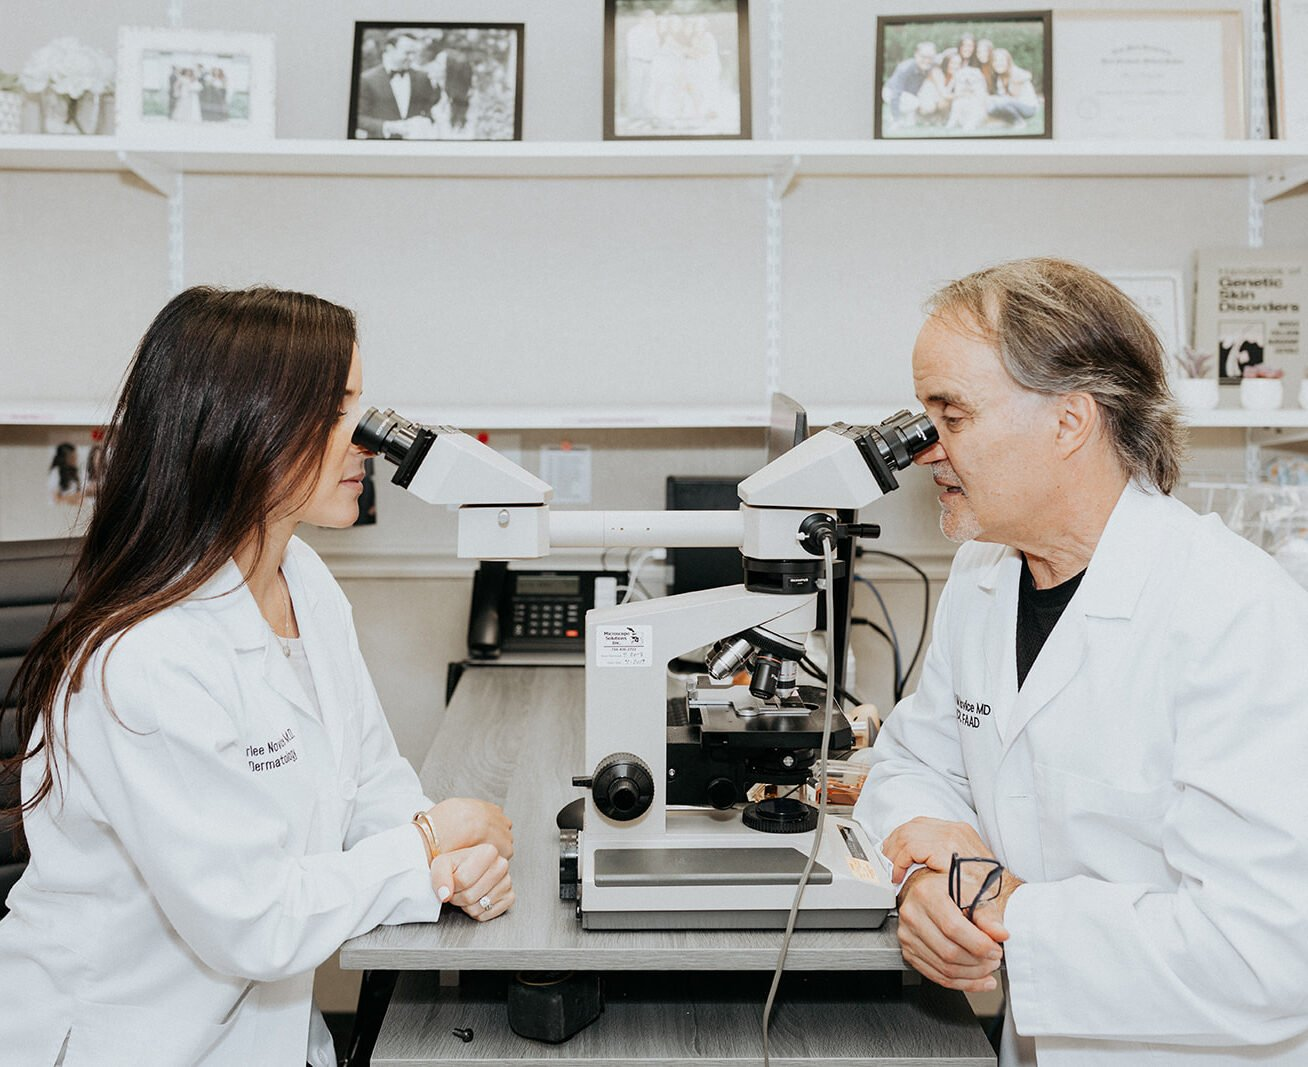
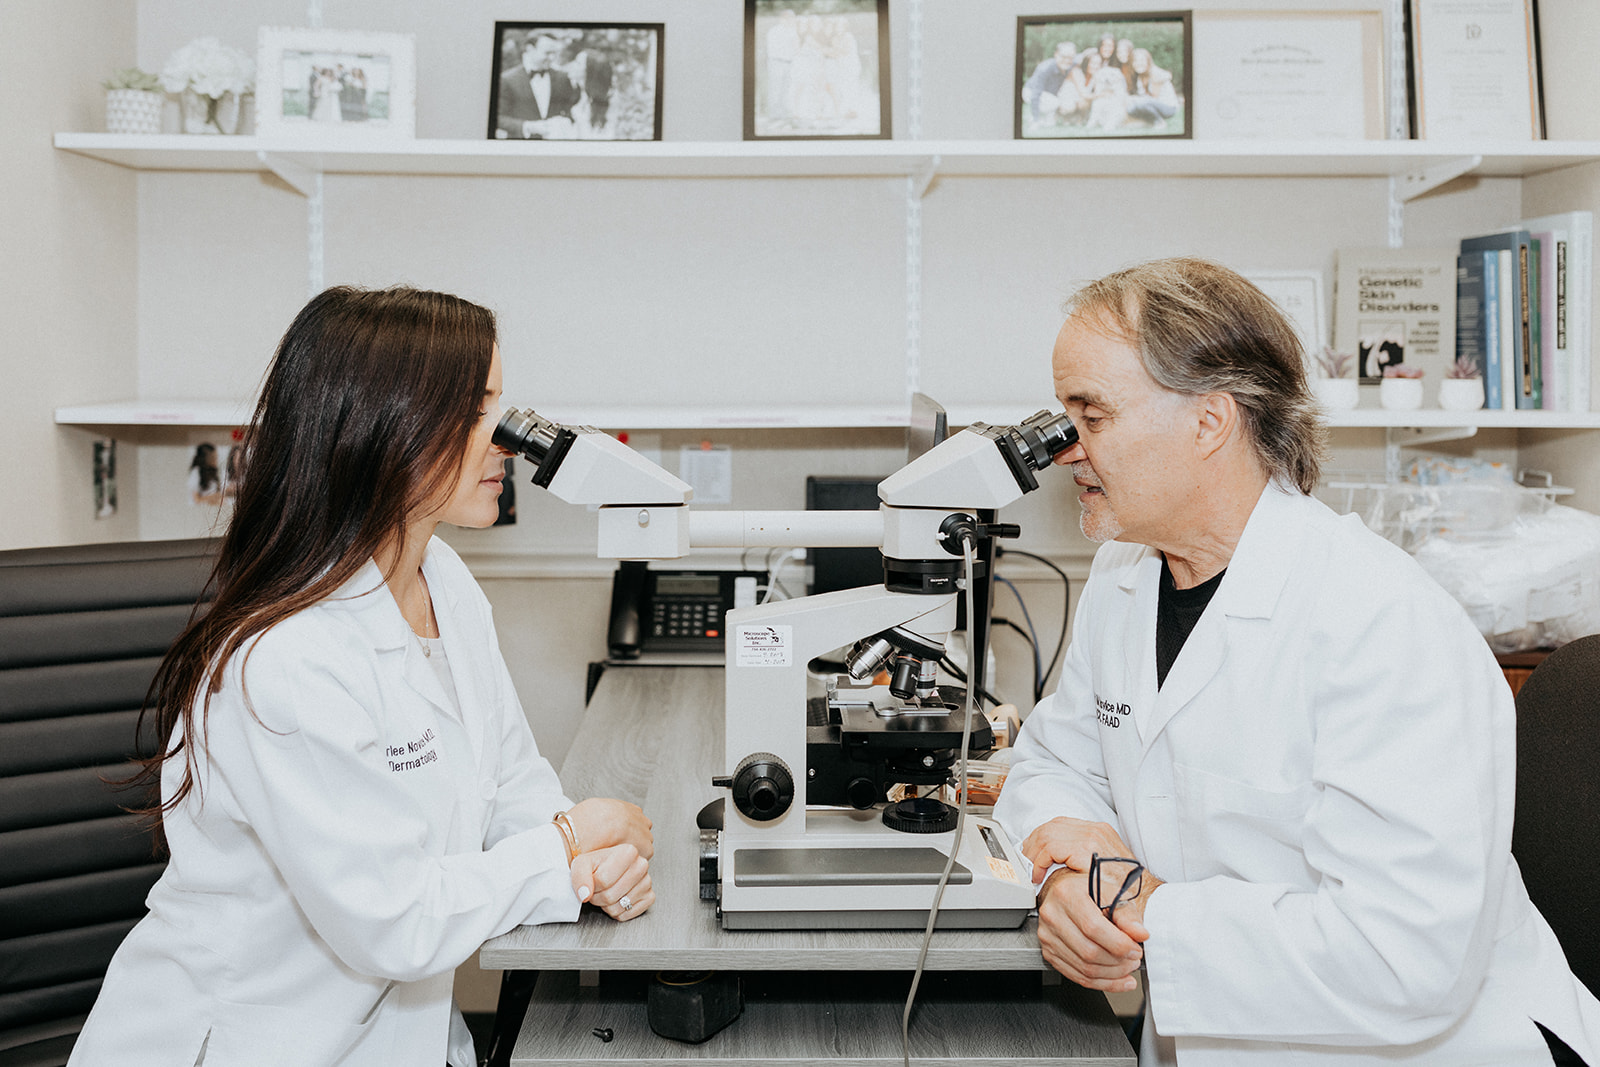
Upgrade hero/Taylor/lab photos and add harvested clinic shots (#7)
* Add harvested clinic photos (hero, Taylor, lab, trio, and new stills)

* Remap images.ts and page heroes to harvested clinic photos

diff --git a/src/lib/images.ts b/src/lib/images.ts
@@ -1,12 +1,12 @@
 /**
  * Site imagery, grouped by purpose.
  * Centralized so photography can be managed in one place.
+ * All paths are real practice photos (self-hosted). No stock / Unsplash.
  */
 
 export const images = {
   hero: {
-    // Real practice photography, self-hosted (harvested from the legacy site
-    // pre-cutover; legacy wp-content URLs die when the domain flips)
+    // Higher-res harvested original of the family trio
     main: '/images/hero-family.jpg',
     portrait: '/images/hero-family.jpg',
     practice: '/images/office-art-hallway.jpg',
@@ -16,61 +16,51 @@ export const images = {
     karlee: '/images/providers/karlee.jpg',
     taylor: '/images/providers/taylor.jpg',
     erin: '/images/providers/erin.jpg',
+    taylorMicroscope: '/images/providers/taylor-microscope.jpg',
   },
   lab: '/images/lab-microscope.jpg',
+  labPortrait: '/images/fred-karlee-lab-portrait.jpg',
   hallway: '/images/providers-hallway.jpg',
+  hallwayTablet: '/images/hallway-tablet.jpg',
   providersTrio: '/images/providers-trio.jpg',
+  duo: '/images/fred-karlee-duo.jpg',
+  treatmentRoom: '/images/taylor-treatment-room.jpg',
   services: {
-    medical: '/images/providers-hallway.jpg',
+    medical: '/images/hallway-tablet.jpg',
     cosmetic: '/images/office-art-hallway.jpg',
     surgical: '/images/surgical-detail.jpg',
-    pathology: '/images/lab-microscope.jpg',
+    pathology: '/images/providers/taylor-microscope.jpg',
   },
   cosmetic: {
     botox: '/images/cosmetic-injection.jpg',
     fillers: '/images/cosmetic-injection.jpg',
     kybella: '/images/cosmetic-injection.jpg',
     laser: '/images/ipl-treatment.jpg',
-    peels: '/images/ipl-treatment.jpg',
-    microneedling: '/images/office-art-hallway.jpg',
+    peels: '/images/icon-1540-laser.jpg',
+    microneedling: '/images/taylor-treatment-room.jpg',
   },
   shop: {
-    cleanser:
-      '/images/office-art-hallway.jpg',
-    sunscreen:
-      '/images/office-art-hallway.jpg',
-    retinoid:
-      '/images/office-art-hallway.jpg',
-    moisturizer:
-      '/images/office-art-hallway.jpg',
-    serum:
-      '/images/office-art-hallway.jpg',
+    cleanser: '/images/office-art-hallway.jpg',
+    sunscreen: '/images/office-art-hallway.jpg',
+    retinoid: '/images/office-art-hallway.jpg',
+    moisturizer: '/images/office-art-hallway.jpg',
+    serum: '/images/office-art-hallway.jpg',
     eye: '/images/office-art-hallway.jpg',
     lip: '/images/office-art-hallway.jpg',
     mask: '/images/office-art-hallway.jpg',
   },
   lifestyle: {
-    family:
-      '/images/office-art-hallway.jpg',
-    office:
-      '/images/office-art-hallway.jpg',
-    consultation:
-      '/images/office-art-hallway.jpg',
-    detail:
-      '/images/office-art-hallway.jpg',
+    family: '/images/fred-karlee-duo.jpg',
+    office: '/images/hallway-tablet.jpg',
+    consultation: '/images/hallway-tablet.jpg',
+    detail: '/images/taylor-treatment-room.jpg',
   },
   blog: {
-    post1:
-      '/images/office-art-hallway.jpg',
-    post2:
-      '/images/office-art-hallway.jpg',
-    post3:
-      '/images/office-art-hallway.jpg',
-    post4:
-      '/images/office-art-hallway.jpg',
-    post5:
-      '/images/office-art-hallway.jpg',
-    post6:
-      '/images/office-art-hallway.jpg',
+    post1: '/images/lab-microscope.jpg',
+    post2: '/images/hallway-tablet.jpg',
+    post3: '/images/providers/taylor-microscope.jpg',
+    post4: '/images/fred-karlee-duo.jpg',
+    post5: '/images/fred-karlee-lab-portrait.jpg',
+    post6: '/images/taylor-treatment-room.jpg',
   },
 };

diff --git a/src/lib/posts.ts b/src/lib/posts.ts
@@ -35,7 +35,7 @@ export const posts: Post[] = [
       'A practical walkthrough of a full-body skin exam in Bloomfield Hills: how to prepare, what we look at, and when a biopsy or off-site Mohs may be next.',
     date: '2026-08-24',
     authorSlug: 'karlee-novice',
-    image: '/images/office-art-hallway.jpg',
+    image: '/images/hallway-tablet.jpg',
     paragraphs: [
       'A full-body skin cancer screening is a careful look at your skin from scalp to toes. It is a routine medical visit, not a test you have to study for.',
       'You will undress to your underwear. A gown is available, and we examine one area at a time so you can stay as covered as you like. The visit is straightforward and private.',

diff --git a/src/app/services/medical-dermatology/page.tsx b/src/app/services/medical-dermatology/page.tsx
@@ -69,8 +69,8 @@ export default function MedicalDermatologyPage() {
         accent="of healthy skin."
         description="From a kid&rsquo;s first acne flare to an adult&rsquo;s annual skin cancer screening, the medical side of dermatology is the heart of the practice. Three board-certified dermatologists and a nurse practitioner — listening carefully, diagnosing precisely, treating thoughtfully."
         image={{
-          src: images.hallway,
-          alt: 'The Novice Group Dermatology office hallway',
+          src: images.services.medical,
+          alt: 'Drs. Fred and Karlee Novice reviewing a chart on a tablet',
         }}
       />
 

diff --git a/src/app/services/dermatopathology/page.tsx b/src/app/services/dermatopathology/page.tsx
@@ -40,8 +40,8 @@ export default function DermatopathologyPage() {
         accent="under the microscope."
         description="Dermatopathology is the medical specialty that diagnoses skin disease by examining tissue under the microscope. Two of our dermatologists are also fellowship-trained pathologists — meaning the doctor who examines your skin is also the one who reads your biopsy."
         image={{
-          src: images.lab,
-          alt: 'Microscope used for dermatopathology slide review at Novice Group Dermatology',
+          src: images.services.pathology,
+          alt: 'Dr. Taylor Novice at a microscope',
         }}
       />
 

diff --git a/src/components/home/LabStory.tsx b/src/components/home/LabStory.tsx
@@ -15,7 +15,7 @@ export function LabStory() {
           <div className="relative z-10 rounded-[2.5rem] overflow-hidden aspect-square shadow-2xl bg-sand">
             <Image
               src={LAB_IMAGE}
-              alt="Microscope used when our dermatologists review pathology slides"
+              alt="Drs. Fred and Karlee Novice reviewing slides at a microscope"
               fill
               sizes="(max-width: 1024px) 90vw, 560px"
               className="object-cover grayscale"
